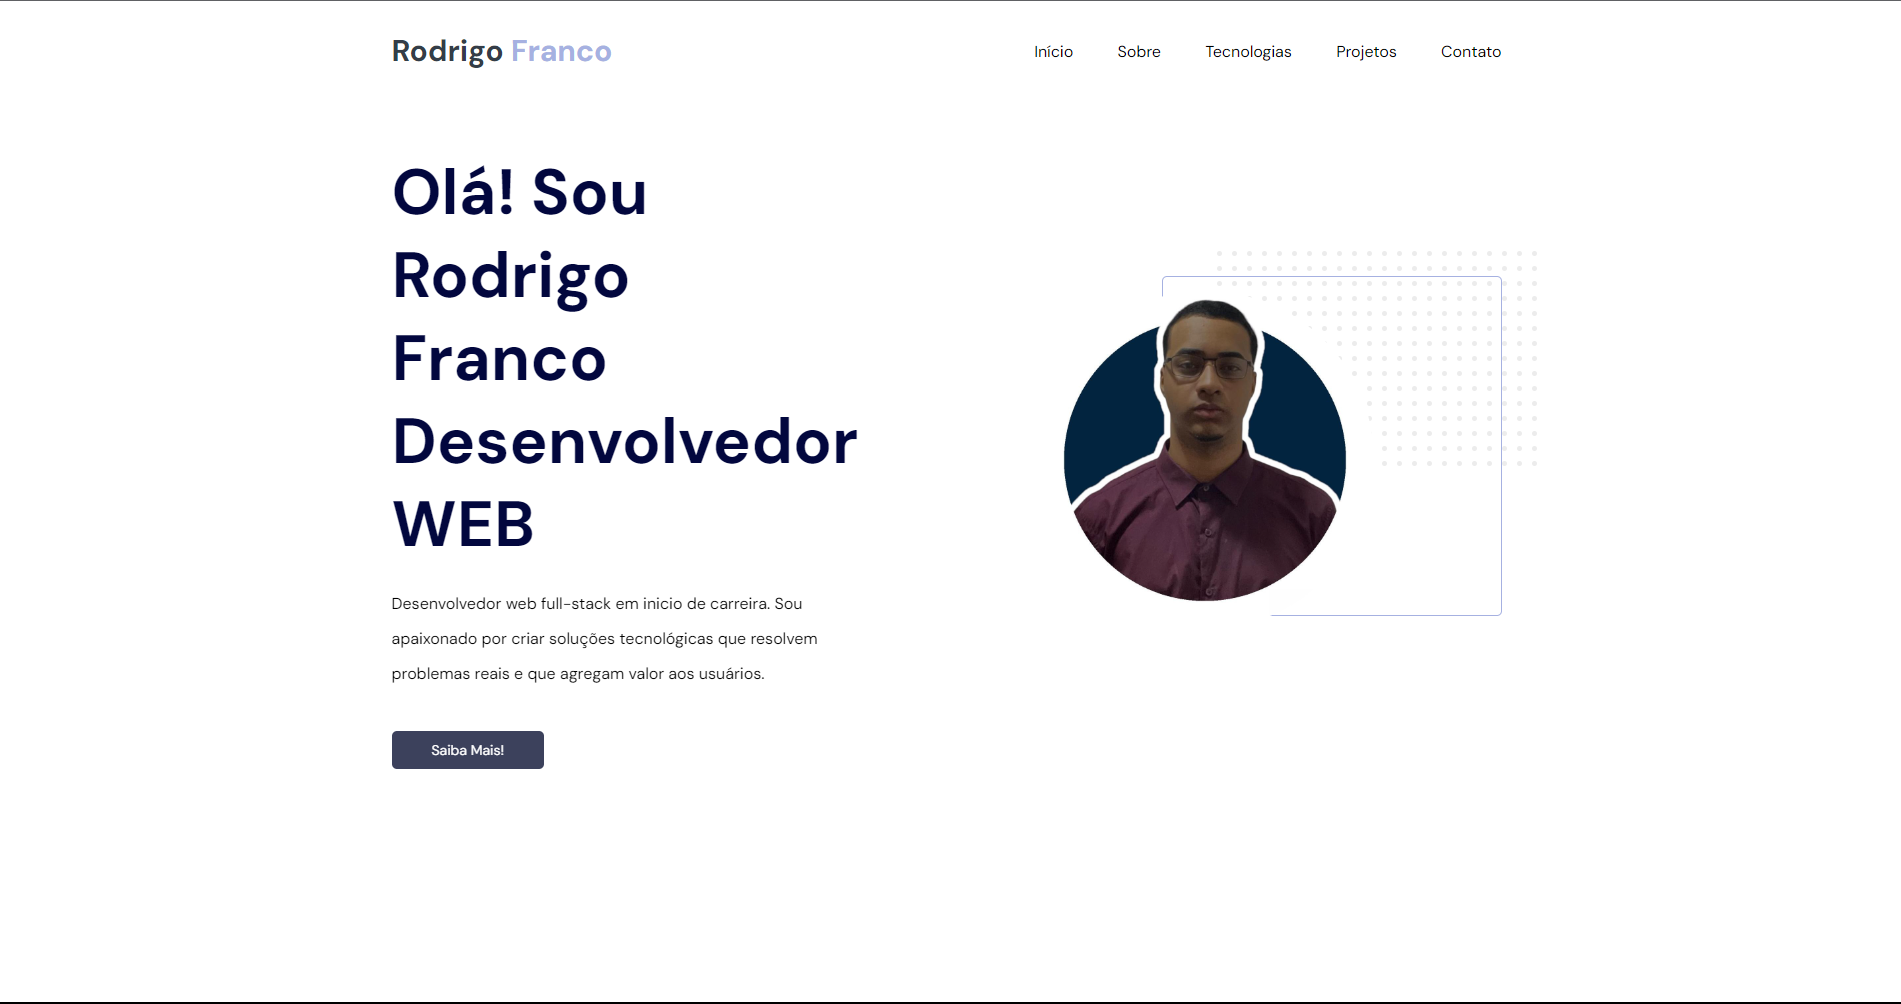
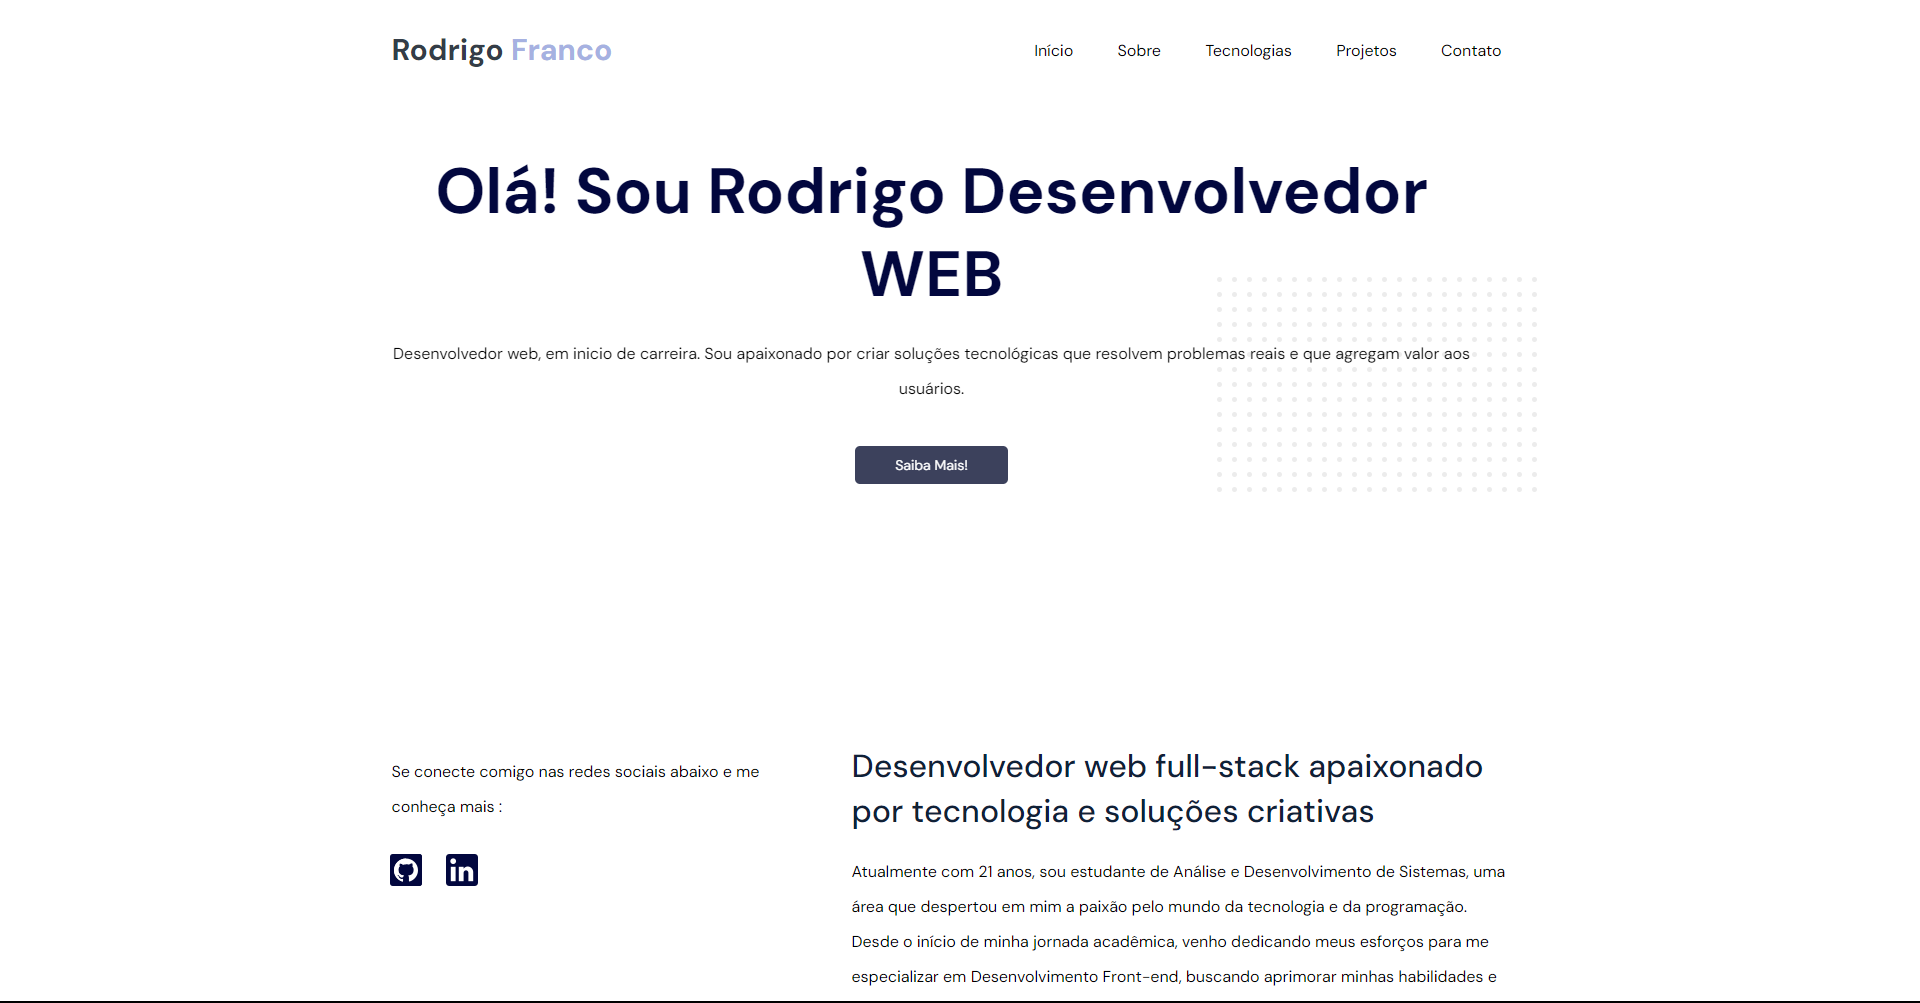
Aleteracao de arquivos

diff --git a/index.html b/index.html
@@ -56,7 +56,6 @@
     </div>
     <div class="header__right">
       <div class="header__image">
-        <img src="assets/perfil.jpg" alt="Rodrigo-foto-perfil" class="rodrigo" />
         <img src="assets/abstract.svg" alt="background" class="background" />
       </div>
     </div>
@@ -148,21 +147,15 @@
           <h3>Git</h3>
         <li class="skills__item">
           <div class="image-container">
-            <img src="assets/python.png" alt="python-img" />
-          </div>
-          <h3>Python</h3>
-        </li>
-        <li class="skills__item">
-          <div class="image-container">
             <img src="assets/sql.png" alt="sql-img" />
           </div>
           <h3>SQL</h3>
         </li>
         <li class="skills__item">
           <div class="image-container">
-            <img src="assets/php.png" alt="php-img" />
+            <img src="assets/java.png" alt="java-img" />
           </div>
-          <h3>PHP</h3>
+          <h3>Java</h3>
         </li>
       </ul>
     </div>

diff --git a/css/components/header.css b/css/components/header.css
@@ -9,14 +9,14 @@ header {
 
 header .header__left {
   animation: inicializar .7s forwards;
-  max-width: 62rem;
-  flex: 1;
+  text-align: center;
+  
 }
 
 header .header__left p {
   margin-top: 2rem;
   margin-bottom: 4rem;
-  max-width: 50rem;
+  text-align: center;
 }
 
 header .header__right .header__image {
@@ -25,23 +25,6 @@ header .header__right .header__image {
   display: flex;
   justify-content: center;
 }
-
-header .header__right .header__image::after {
-  content: '';
-  display: block;
-  width: 100%;
-  height: 100%;
-  min-width: 25rem;
-  max-width: 55%;
-  border: 1px solid var(--tertiary-color);
-  border-radius: 50%;
-  position: absolute;
-  top: -1.5rem;
-  right: 1rem;
-  border-radius: 0.5rem;
-  z-index: -1;
-}
-
 header .header__right .header__image .rodrigo {
   border-radius: 30rem;
   min-width: 25rem;

diff --git a/css/globals.css b/css/globals.css
@@ -69,6 +69,7 @@
     color: var(--white);
     font-weight: 400;
     font-size: 1.4rem;
+    
   }
   .btn.btn-primary:hover {
     background-color: var(--dark-secondary-color);
